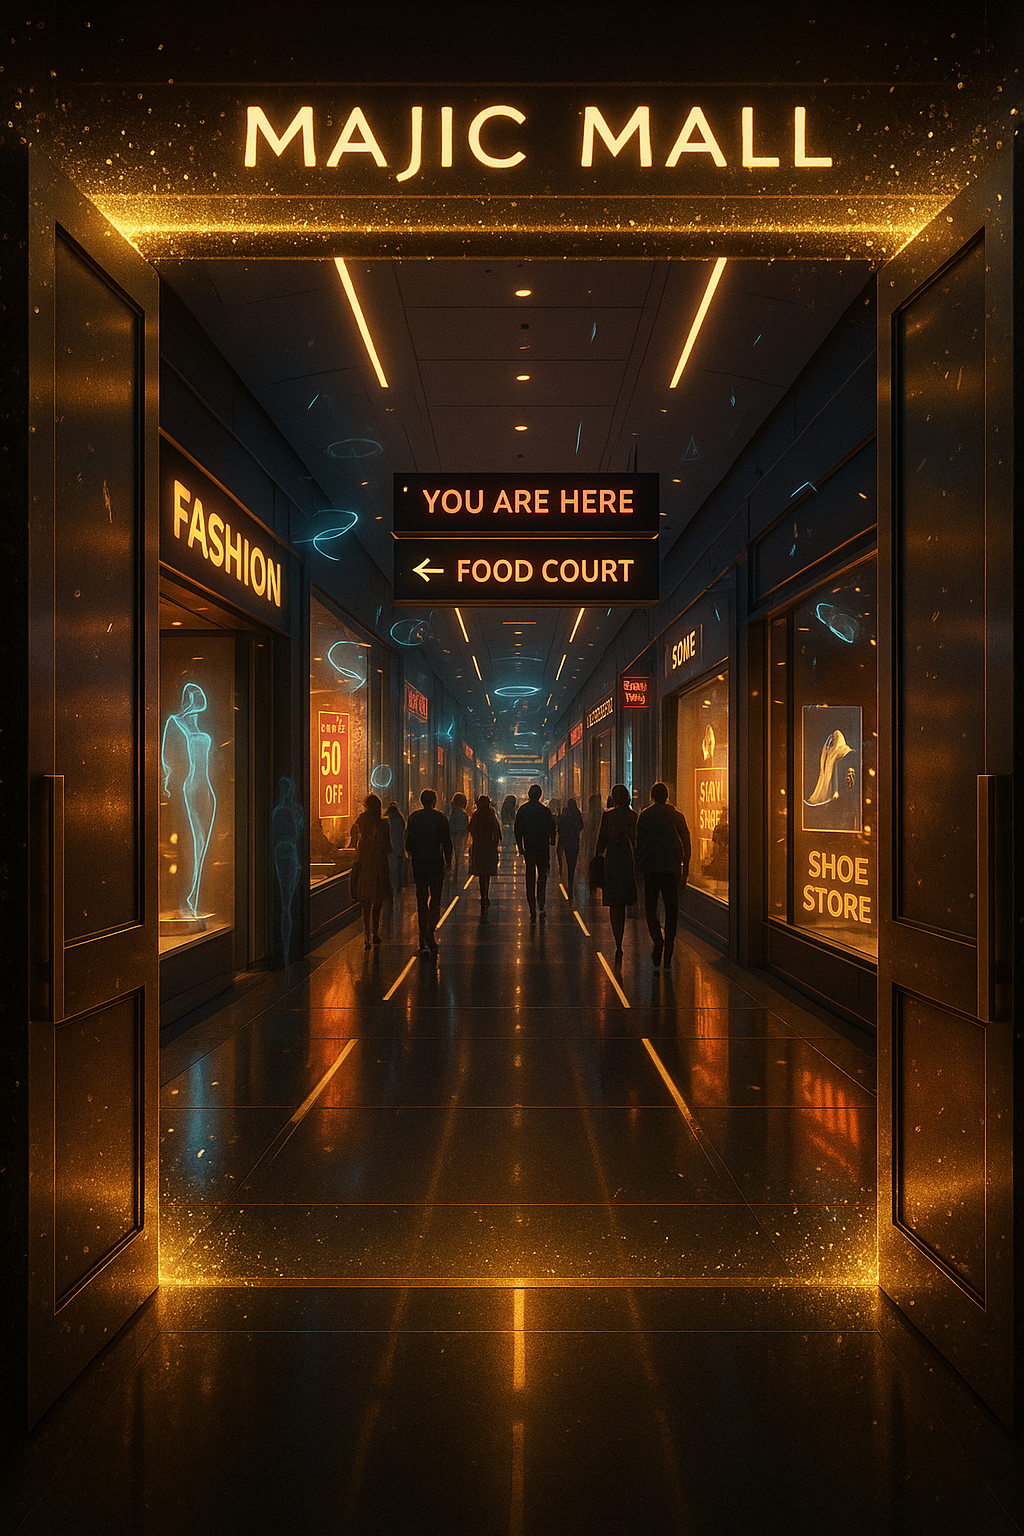
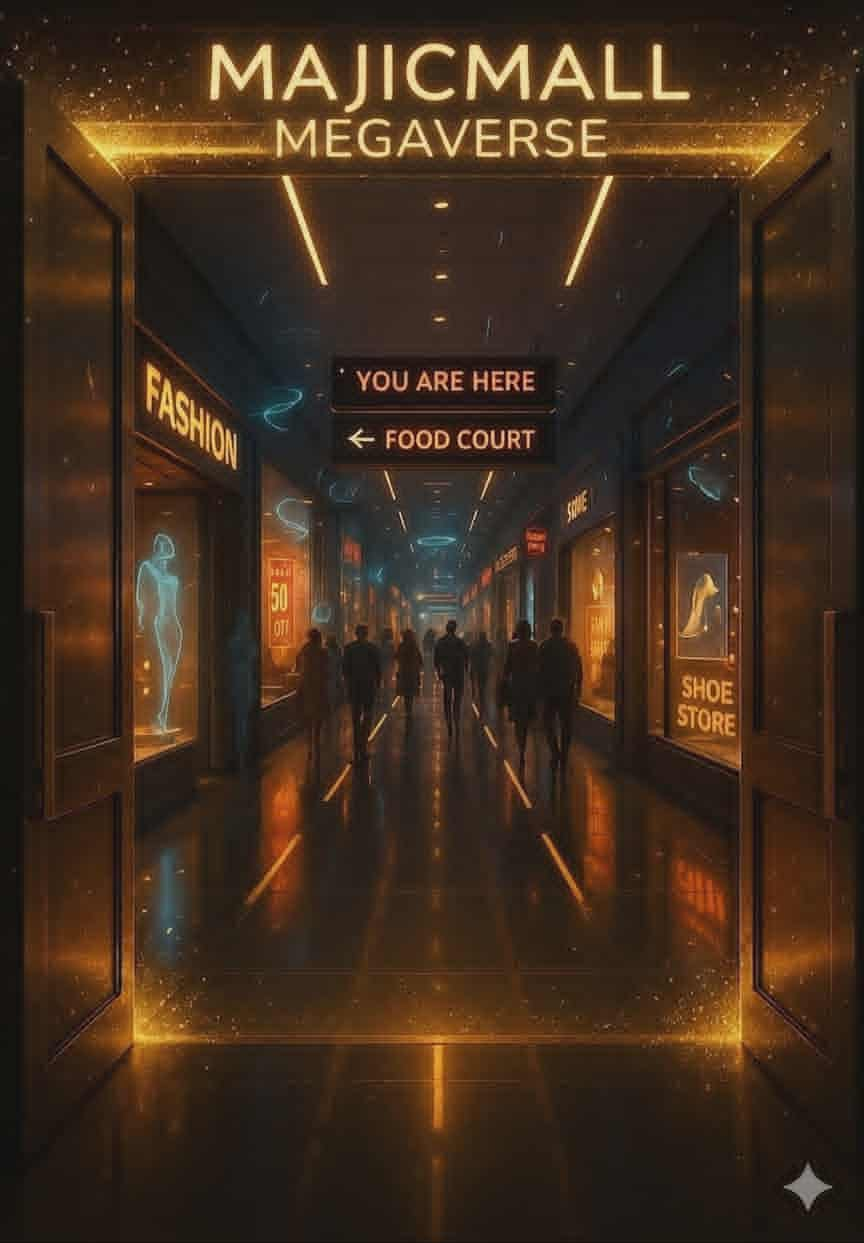
Complete storefront entrance flow

diff --git a/merchant/templates/merchant/storefront_inside.html b/merchant/templates/merchant/storefront_inside.html
@@ -1,0 +1,83 @@
+{% load static %}
+<!doctype html>
+<html lang="en">
+<head>
+<meta charset="utf-8">
+<title>{{ store.store_name }} | MajicMall Store</title>
+<meta name="viewport" content="width=device-width, initial-scale=1">
+<script src="https://cdn.tailwindcss.com"></script>
+</head>
+
+<body class="bg-gray-950 text-white min-h-screen">
+
+<main class="max-w-6xl mx-auto px-6 py-8">
+
+  <a href="{% url 'storefront' store.slug %}" class="inline-block mb-8 text-yellow-400 font-bold">
+    ← Back to Storefront
+  </a>
+
+  <div class="flex items-center gap-4 mb-8">
+    {% if store.logo %}
+      <img src="{{ store.logo.url }}"
+           alt="{{ store.store_name }}"
+           class="h-20 w-20 object-cover rounded-2xl border border-gray-700 bg-white">
+    {% endif %}
+
+    <div>
+      <h1 class="text-3xl font-bold text-yellow-400">{{ store.store_name }}</h1>
+      {% if store.slogan %}
+        <p class="text-gray-300 mt-1">{{ store.slogan }}</p>
+      {% endif %}
+    </div>
+  </div>
+
+  {% if store.description %}
+    <p class="text-gray-300 mb-8">{{ store.description }}</p>
+  {% endif %}
+
+  {% if products %}
+    <div class="grid grid-cols-1 sm:grid-cols-2 md:grid-cols-3 gap-6">
+      {% for product in products %}
+        <div class="bg-gray-900 rounded-2xl p-4 border border-gray-800">
+
+          {% if product.image %}
+            <img src="{{ product.image.url }}"
+                 alt="{{ product.name }}"
+                 class="h-48 w-full object-cover rounded-xl mb-4">
+          {% else %}
+            <div class="h-48 w-full bg-gray-800 rounded-xl mb-4 grid place-items-center text-gray-500">
+              No image
+            </div>
+          {% endif %}
+
+          <h3 class="text-lg font-semibold text-yellow-400">{{ product.name }}</h3>
+
+          {% if product.category %}
+            <p class="text-xs text-gray-500 mt-1">{{ product.category.name }}</p>
+          {% endif %}
+
+          {% if product.description %}
+            <p class="text-sm text-gray-400 mt-2">{{ product.description|truncatewords:20 }}</p>
+          {% endif %}
+
+          <div class="mt-4 flex items-center justify-between">
+            <span class="text-xl font-bold">${{ product.price|floatformat:2 }}</span>
+
+            <button class="px-3 py-2 bg-yellow-400 text-black rounded-xl opacity-80">
+              View Item
+            </button>
+          </div>
+
+        </div>
+      {% endfor %}
+    </div>
+  {% else %}
+    <div class="bg-gray-900 rounded-2xl p-6 text-gray-300 border border-gray-800">
+      This store doesn’t have any products yet.
+    </div>
+  {% endif %}
+
+</main>
+
+</body>
+</html>

diff --git a/core/templates/mall/storefront_entry.html b/core/templates/mall/storefront_entry.html
@@ -1,0 +1,75 @@
+{% load static %}
+<!DOCTYPE html>
+<html lang="en">
+<head>
+<meta charset="UTF-8">
+<title>{{ store.store_name }} | MajicMall Megaverse</title>
+<meta name="viewport" content="width=device-width, initial-scale=1.0">
+<script src="https://cdn.tailwindcss.com"></script>
+</head>
+
+<body class="bg-black text-white min-h-screen">
+
+<main class="min-h-screen flex items-center justify-center px-6 py-10">
+
+  <section class="w-full max-w-5xl rounded-3xl p-6 md:p-10 text-center bg-black/70 border border-yellow-400/30 shadow-2xl">
+
+    {% if store.storefront_image %}
+      <img src="{{ store.storefront_image.url }}"
+           alt="{{ store.store_name }}"
+           class="w-full h-72 md:h-[480px] object-cover rounded-3xl mb-8 border border-yellow-400/30 shadow-2xl">
+    {% endif %}
+
+    {% if store.logo %}
+      <img src="{{ store.logo.url }}"
+           alt="{{ store.store_name }}"
+           class="mx-auto h-28 w-28 rounded-2xl object-cover bg-white mb-6">
+    {% else %}
+      <div class="mx-auto h-28 w-28 rounded-2xl bg-gray-800 flex items-center justify-center text-5xl mb-6">
+        🏬
+      </div>
+    {% endif %}
+
+    <div class="text-yellow-400 uppercase tracking-widest font-bold text-sm mb-3">
+      Welcome To
+    </div>
+
+    <h1 class="text-4xl md:text-6xl font-black mb-4">
+      {{ store.store_name }}
+    </h1>
+
+    {% if store.slogan %}
+      <p class="text-xl text-gray-200 mb-5">{{ store.slogan }}</p>
+    {% endif %}
+
+    {% if store.description %}
+      <p class="text-gray-300 max-w-2xl mx-auto leading-relaxed mb-8">
+        {{ store.description|truncatewords:35 }}
+      </p>
+    {% endif %}
+
+    <div class="flex flex-col sm:flex-row justify-center gap-4">
+      <a href="{% url 'store-inside' store.slug %}"
+         class="px-8 py-4 rounded-2xl bg-yellow-400 text-black font-black text-lg hover:bg-yellow-300 transition">
+        Enter Store →
+      </a>
+
+      {% if store.zone %}
+        <a href="{% url 'zone-interior' zone_slug=store.zone.slug %}"
+           class="px-8 py-4 rounded-2xl bg-gray-800 text-white font-bold text-lg hover:bg-gray-700 transition">
+          ← Back to {{ store.zone.name }}
+        </a>
+      {% else %}
+        <a href="{% url 'mall-directory' %}"
+           class="px-8 py-4 rounded-2xl bg-gray-800 text-white font-bold text-lg hover:bg-gray-700 transition">
+          ← Back to Directory
+        </a>
+      {% endif %}
+    </div>
+
+  </section>
+
+</main>
+
+</body>
+</html>

diff --git a/core/templates/mall/directory.html b/core/templates/mall/directory.html
@@ -45,7 +45,7 @@ body {
     </a>
   </div>
 
-  <!-- LIVE STORES BY ZONE -->
+  <!-- FEATURED STORES BY ZONE -->
   <div class="w-full max-w-6xl">
     <div class="text-center mb-10">
       <h2 class="text-3xl font-bold text-yellow-400">Live Stores by Zone</h2>

diff --git a/core/urls.py b/core/urls.py
@@ -12,12 +12,14 @@ urlpatterns = [
     path("community/signup/", views.community_signup, name="community-signup"),
     path("grand-entrance-city-view/", views.grand_entrance_city_view, name="grand-entrance-city-view"),
     path("grand-reveal/", views.grand_reveal, name="grand-reveal"),
+    
 
     # ---------------------------
     # 🗺 Mall Directory
     # ---------------------------
     path("directory/", views.mall_directory, name="mall-directory"),
-
+    path("store/<slug:store_slug>/", views.storefront, name="storefront"),
+    path("store/<slug:store_slug>/inside/", views.store_inside, name="store-inside"),
     # ---------------------------
     # 🏬 ZONES
     # ---------------------------
